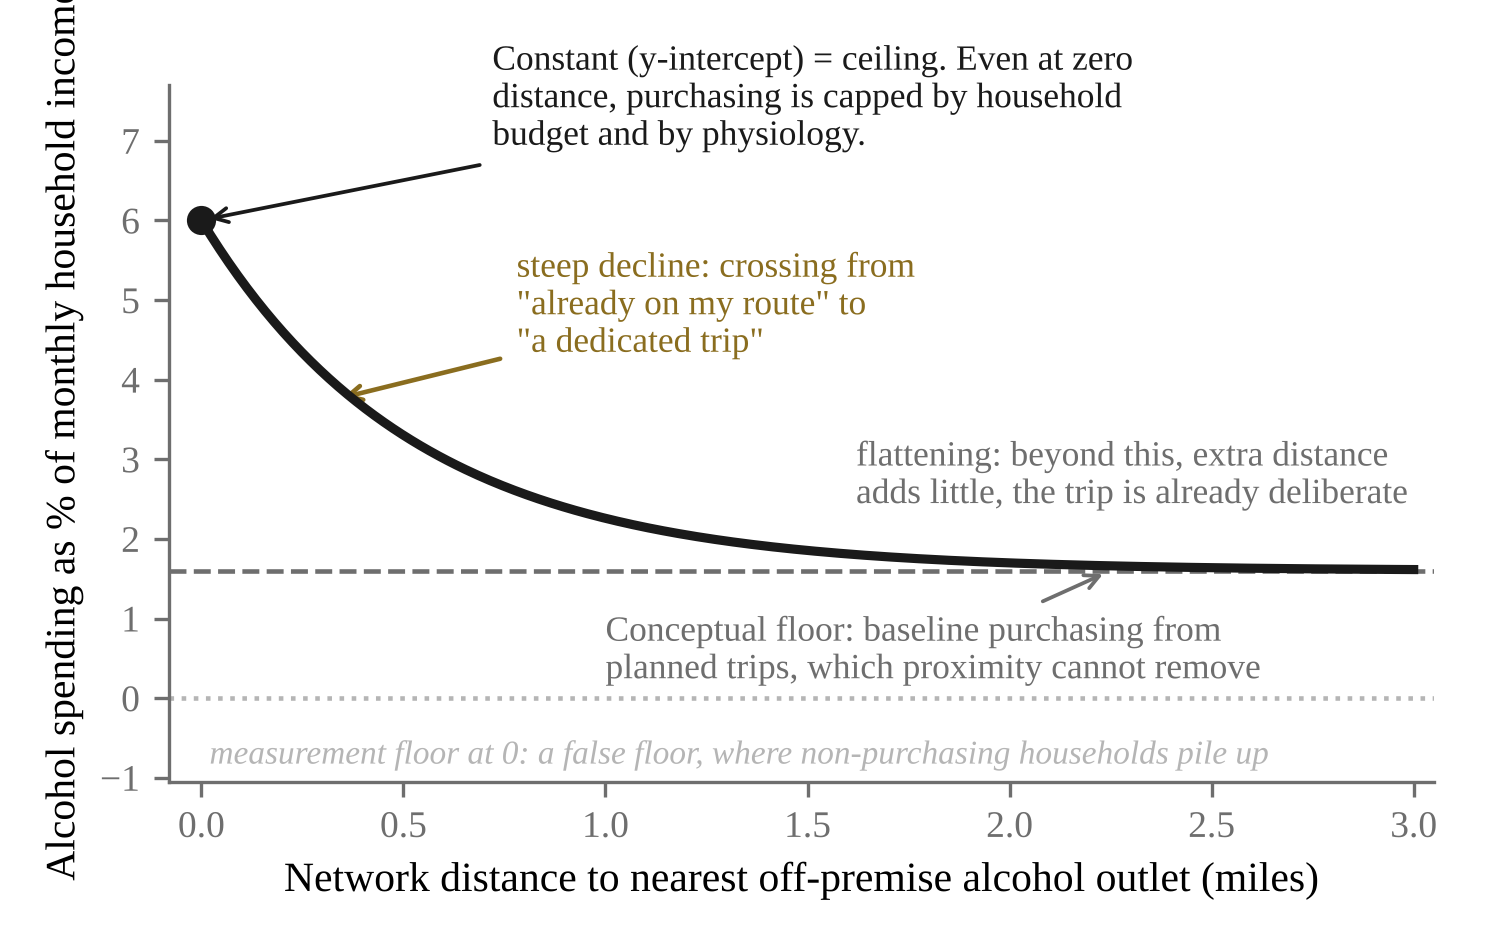
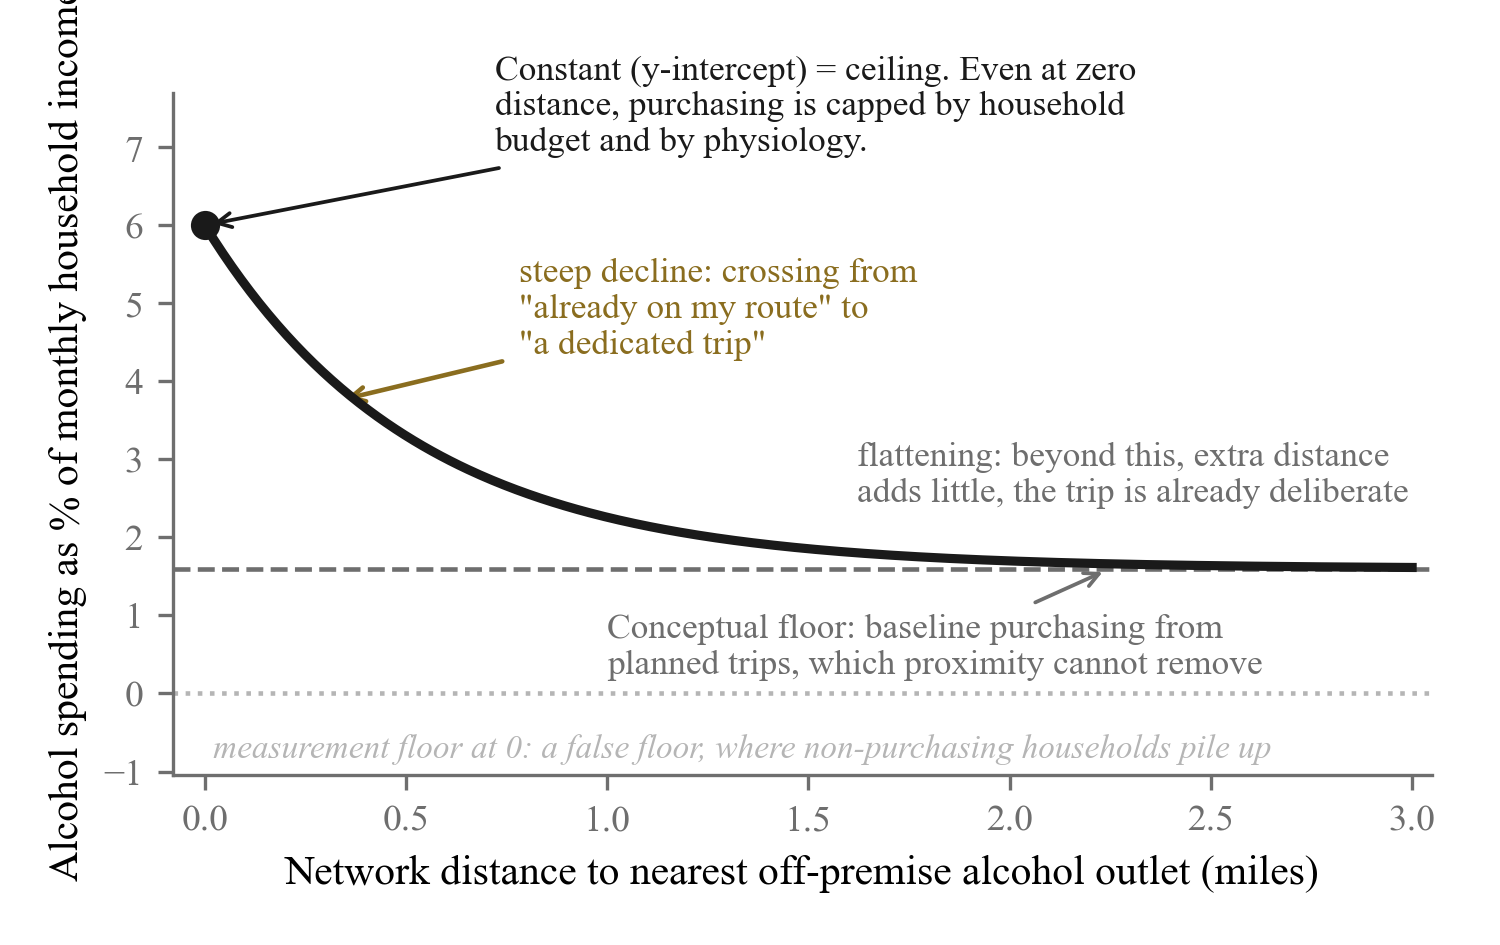
update codes for figures

diff --git a/figures.py b/figures.py
@@ -4,11 +4,27 @@ import matplotlib.pyplot as plt
 import numpy as np
 from matplotlib.patches import FancyArrowPatch, FancyBboxPatch
 
+# Font: Times New Roman first so the figures match the Word document.
+# Liberation Serif is metric-compatible with it (same widths), DejaVu Serif is
+# matplotlib's bundled fallback and is WIDER -- if it gets used, labels crowd
+# and the figures look noticeably worse. The print below says which one won.
+SERIF_PREFERENCE = ["Times New Roman", "Liberation Serif", "Tinos", "DejaVu Serif"]
 plt.rcParams.update({
     "font.family": "serif",
-    "font.serif": ["Liberation Serif", "DejaVu Serif"],
+    "font.serif": SERIF_PREFERENCE,
     "font.size": 10,
 })
+
+import matplotlib.font_manager as _fm
+_installed = {f.name for f in _fm.fontManager.ttflist}
+_resolved = next((f for f in SERIF_PREFERENCE if f in _installed), None)
+if _resolved in (None, "DejaVu Serif"):
+    print("WARNING: falling back to DejaVu Serif. Figures will look wider and more"
+          " crowded than the shipped PNGs.\n"
+          "         Install Times New Roman or Liberation Serif, or just use the"
+          " PNGs already in this folder.")
+else:
+    print("Using font:", _resolved)
 OUT = ""
 INK, GRAY, LIGHT = "#1a1a1a", "#6e6e6e", "#b5b5b5"
 BLUE, ORANGE = "#4472C4", "#ED7D31"
